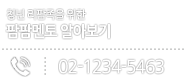
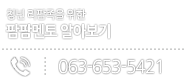
메인 레이아웃 작업

Changed region(s): [[0.3403, 0.716, 0.6545, 0.9136], [0.7592, 0.716, 0.8639, 0.9136]]

diff --git a/app/assets/stylesheets/home.css.scss b/app/assets/stylesheets/home.css.scss
@@ -49,7 +49,7 @@
 }
 .mentor-wrapper .mentor-indicator.selected {
 	position: absolute;
-	border: 5px solid #39b875;
+	border: 5px solid #00A563;
 	border-bottom: none;
 	width: 122px;
 	height: 109px;
@@ -119,6 +119,7 @@
 .mentor-wrapper .mentor-summary .green-label {
 	position: absolute;
 	left: 110px;
+	z-index: 1px;
 	top: 0;
 }
 .grid-title {
@@ -223,21 +224,59 @@
 
 #mentor-detail-wrapper {
 	display:none;
+	position: relative;
 	padding-bottom: 34px;
 	background: #fff;
-	width: 827px;
+	width: 817px;
 	float: left;
-	border: 5px solid #39b875;
+	border: 5px solid #00A563;
 }
 #mentor-detail-wrapper .mentor-title {
-	padding: 16px 0 16px 36px;
+	padding-left: 36px;
 	font-size: 16px;
 	border-bottom: 1px solid #919191;
 }
+#mentor-detail-wrapper .mentor-title:after {
+	content: "";
+	clear: both;
+	display: block;
+}
+#mentor-detail-wrapper .mentor-title span {
+	float: left;
+	font-size: 16px;
+	line-height: 44px;
+	font-family:'나눔고딕', 'NanumGothic';
+}
+#mentor-detail-wrapper .mentor-title img#detail-close {
+	float: right;
+	max-width: 30px;
+	margin-top: -5px;
+	margin-right: -5px;
+} 
+#mentor-detail-wrapper .mentor-title img:hover {
+	cursor: pointer;
+}
 #mentor-detail-wrapper .mentor-desc {
-	padding: 16px 0 16px 36px;
+	padding: 20px 36px 20px 36px;
 	font-size: 12px;
 	border-bottom: 1px solid #919191;
+}
+#mentor-detail-wrapper .mentor-desc:after {
+	content: "";
+	clear: both;
+	display: block;
+}
+#mentor-detail-wrapper .mentor-desc span {
+	float: left;
+	font-size: 12px;
+	margin-top: 6px;
+
+}
+#mentor-detail-wrapper .mentor-desc img {
+	float: right;
+}
+#mentor-detail-wrapper .mentor-desc img:hover {
+	cursor: pointer;
 }
 #mentor-detail-wrapper .mentor-category {
 	
@@ -265,6 +304,8 @@
 	display: block;
 }
 #mentor-detail-wrapper .mentor-category ul.category-tab li {
+	display: none;
+	position: relative;
 	border-top: 1px solid #919191;
 	border-right: 1px solid #bcbcbc;
 	border-left: 1px solid #bcbcbc;
@@ -278,10 +319,24 @@
 	color: #fff;
 	
 }
+#mentor-detail-wrapper .mentor-category ul.category-tab li.open {
+	display: inline-block;
+}
 #mentor-detail-wrapper .mentor-category ul.category-tab li.selected {
-	height:32px;
-	background: #39b875;
+	height:33px;
+	padding-top:1px;
+	background: #00A563;
+	margin-top:-1px;
 	border: 1px solid #2b8d5a;
+}
+#mentor-detail-wrapper .mentor-category ul.category-tab li img {
+	position: absolute;
+	top: 29px;
+	left: 62px;
+	display: none;
+}
+#mentor-detail-wrapper .mentor-category ul.category-tab li.selected img {
+	display: inline-block;
 }
 #mentor-detail-wrapper .mentor-category ul.category-tab li:hover {
 	cursor: pointer;
@@ -318,4 +373,25 @@
 .tab-divider {
 	padding: 0;
 	margin: 0;
+}
+.etc-bar {
+	width: 100%;
+}
+#join-popup {
+	display:none;
+	position: absolute;
+	top: 0;
+	left: 0;
+	width: 338px;
+	margin-left: 244px;
+	margin-top: 120px;
+}
+#mantor-phone {
+	position: absolute;
+	left: 0;
+	top: 120px;
+	width: 338px;
+	text-align: center;
+	font-size: 20px;
+	color: #666666;
 }

diff --git a/app/assets/javascripts/paloma/home/index.js b/app/assets/javascripts/paloma/home/index.js
@@ -1,4 +1,14 @@
+function CloseJoinPopup() {
+	$("#join-popup").hide();
+}
+function JoinConfirm() {
+	if(confirm("참여하시겠습니까?")) {
+		alert("Somthing to do");
+	}
+	CloseJoinPopup();
+}
 function MoveMentorDetailView(position) {
+	$("#join-popup").hide();
 	var detailPosition = $("#mentor-detail-wrapper").index();
 	if(detailPosition<=position) {
 		position--;
@@ -101,6 +111,21 @@ function MoveMentorDetailView(position) {
 			$("#mentor-detail-wrapper").slideUp(500);
 			setTimeout("MoveMentorDetailView("+$(this).index()+")", 510);
 		}); 
+		
+		$(".mentor-category ul.category-tab li").click(function() {
+			$(".mentor-category ul.category-tab li").removeClass("selected")
+			$(this).addClass("selected");
+		});
+		
+		$("#detail-close").click(function() {
+			$("#join-popup").hide();
+			$("#mentor-detail-wrapper").slideUp(500);
+			$(".mentor-indicator.selected").hide();
+			$(".mentor-indicator.disabled").hide();
+		});
+		$("#join-btn").click(function() {
+			$("#join-popup").show();
+		});
     });
   };
 })();

diff --git a/app/assets/javascripts/application.js b/app/assets/javascripts/application.js
@@ -18,15 +18,7 @@
 //= require jquery.bxslider.min
 //= require jquery-ui-1.10.3.custom.min
 
-$(document).ready(function() {
-	// Family Site link event function
-	$("#footer-familysite").bind("change", function() {
-		console.log("dd");
-		var anchor = $(this).find(":selected").val();
-		if(anchor == "http://www.gosunchang.com/" || anchor == "http://www.refarm.org/") {
-			window.open(anchor, "popupWindow", "width=600,height=600,scrollbars=yes");
-		} else {
-			// Do-Nothing
-		}
-	});
-});
+(function() {
+	
+	
+})();

diff --git a/app/assets/stylesheets/style.css.scss b/app/assets/stylesheets/style.css.scss
@@ -65,19 +65,6 @@ a:hover {
 #sidebar .sidebar-menu a:hover {
 	background: none;
 }
-
-#leftmenu-introduce img:hover {
-	background:asset-url('leftmenu_introduce_over.png');
-}
-#leftmenu-notice img:hover {
-	background:asset-url('leftmenu_notice_over.png');
-}
-#leftmenu-review img:hover {
-	background:asset-url('leftmenu_review_over.png');
-}
-#leftmenu-faq img:hover {
-	background:asset-url('leftmenu_faq_over.png');
-}
 #sidebar .sidebar-menu-item {
 	width:100%;
 	margin-bottom:3px;
